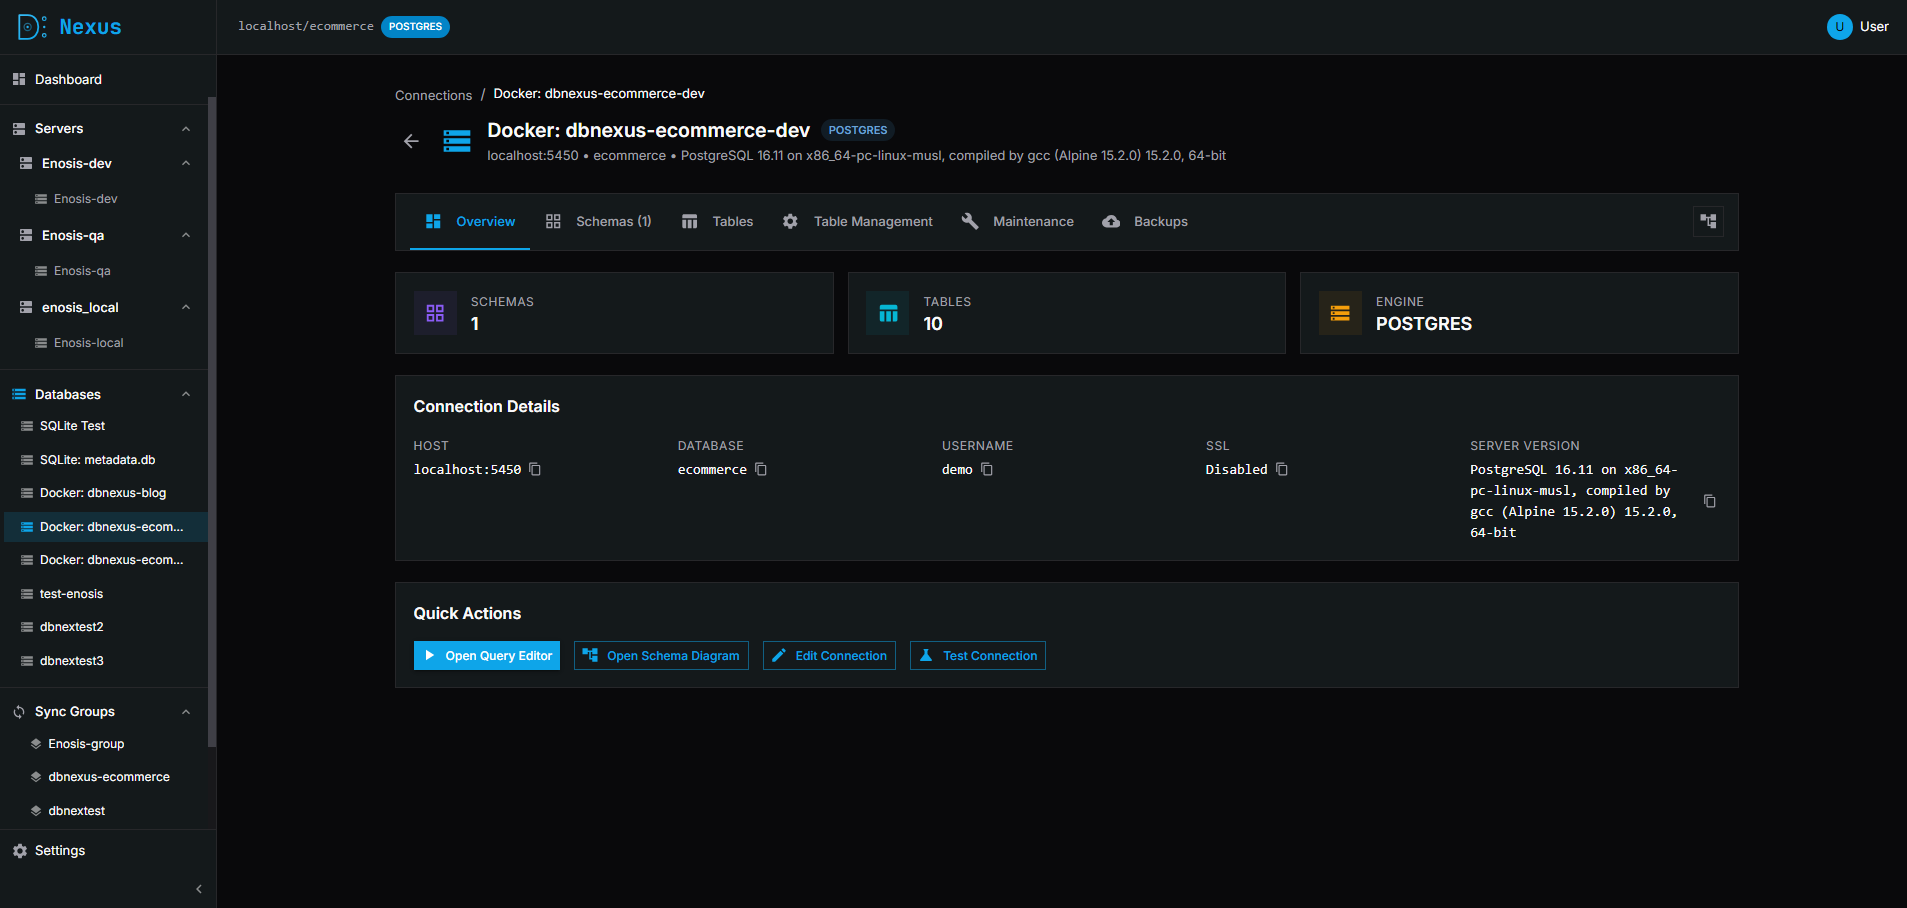
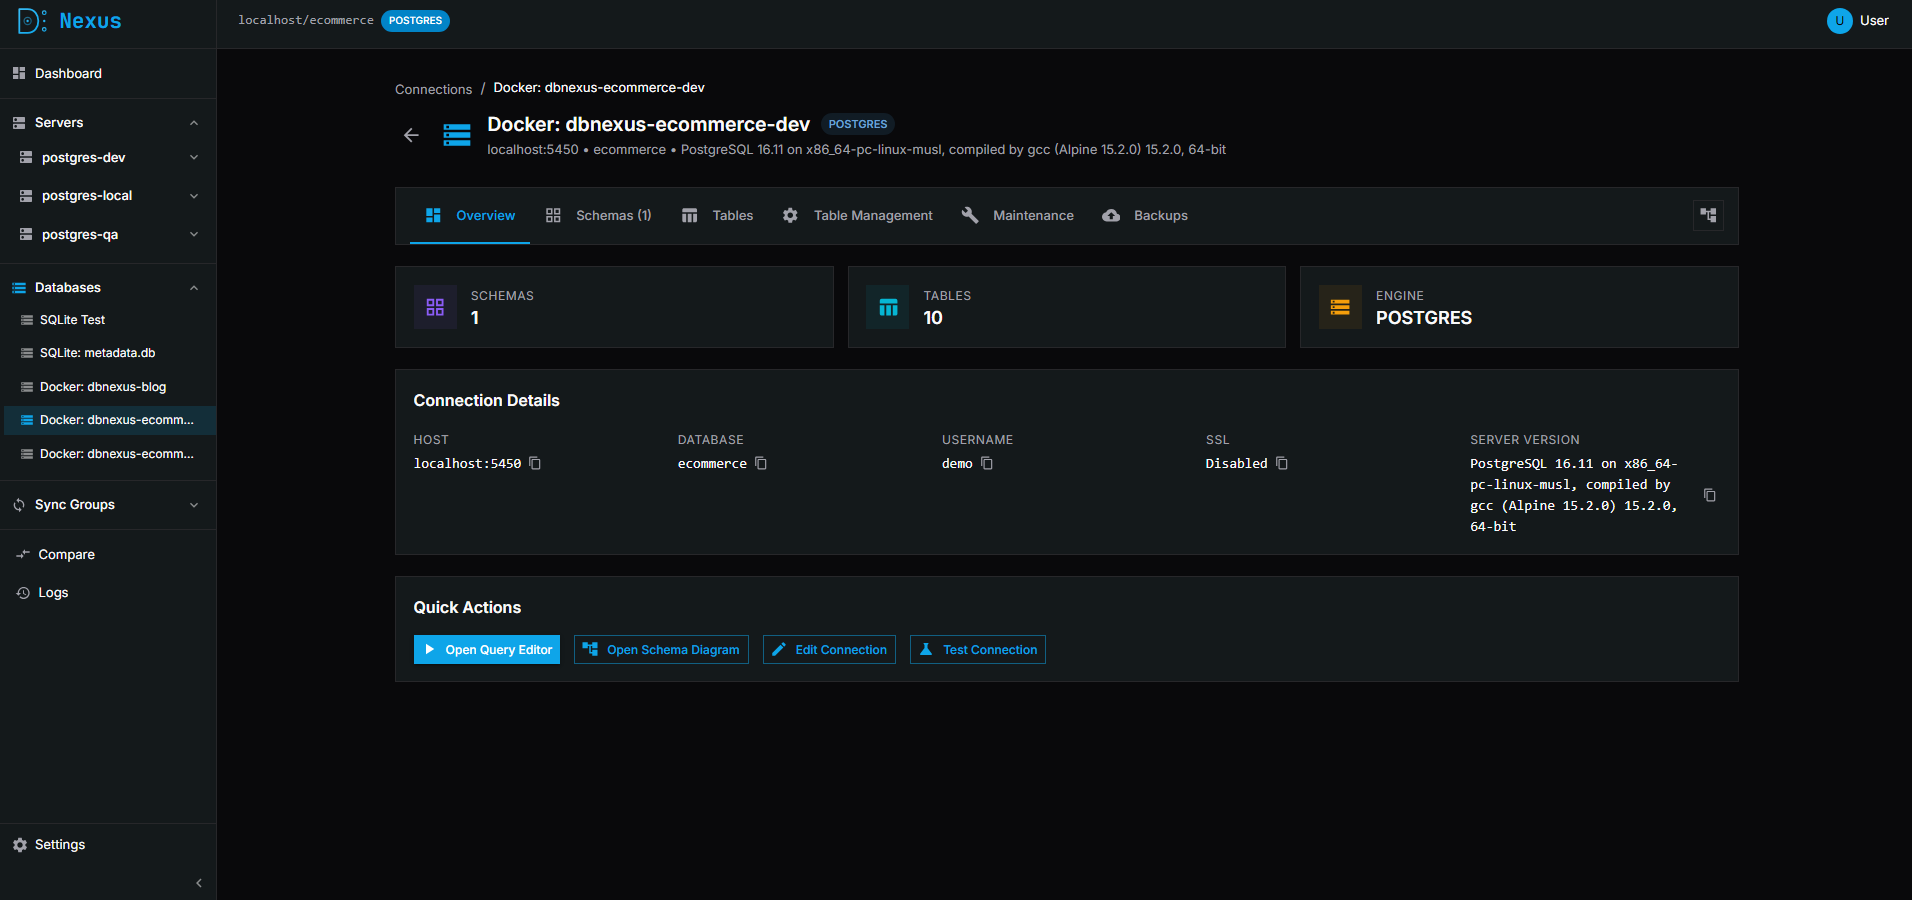
docs: Update screenshots and add Settings documentation
- Add Settings & System Tools section to features page
- Add data comparison to Compare & Sync documentation
- Update all feature screenshots with latest UI
- Fix checkbox vertical alignment in scan dialog

diff --git a/apps/docs/src/pages/FeaturesPage.tsx b/apps/docs/src/pages/FeaturesPage.tsx
@@ -141,17 +141,17 @@ const features = [
         icon: <span className="material-symbols-outlined">compare_arrows</span>,
         color: '#22c55e',
         title: 'Compare & Sync',
-        description: 'Compare database schemas across environments and keep them in sync.',
+        description: 'Compare database schemas and data across environments and keep them in sync.',
         screenshot: 'screenshots/compare-data.png',
         items: [
             'Side-by-side schema comparison',
+            'Row-level data comparison',
             'Highlight added/removed/modified',
             'Generate migration scripts',
             'Compare specific tables',
             'Instance groups for environments',
             'One-click sync preview',
             'Safe dry-run mode',
-            'Rollback support',
         ],
     },
     {
@@ -159,7 +159,7 @@ const features = [
         color: '#22d3ee',
         title: 'Auto-Discovery',
         description: 'Automatically find and connect to databases without manual configuration.',
-        screenshot: 'screenshots/scanconnections.png',
+        screenshot: 'screenshots/scandbs.png',
         items: [
             'Port scanning (5432, 3306, etc.)',
             'Docker container inspection',
@@ -236,6 +236,24 @@ const features = [
             'Backup history and logs',
             'Auto-detection of DB tools',
             'SQLite file copy backup',
+        ],
+    },
+    {
+        icon: <span className="material-symbols-outlined">settings</span>,
+        color: '#94a3b8',
+        title: 'Settings & System Tools',
+        description:
+            'Configure DB Nexus to your needs and verify that all required system tools are properly installed.',
+        screenshot: 'screenshots/settings.png',
+        items: [
+            'System tools verification',
+            'Auto-detect pg_dump, mysqldump, sqlite3',
+            'Custom tool path configuration',
+            'Theme preferences (dark/light)',
+            'Default connection settings',
+            'Data export format options',
+            'Keyboard shortcut reference',
+            'Application version info',
         ],
     },
 ];

diff --git a/apps/web/src/components/ScanConnectionsDialog.tsx b/apps/web/src/components/ScanConnectionsDialog.tsx
@@ -428,7 +428,7 @@ export function ScanConnectionsDialog({
                                                 <Box
                                                     sx={{
                                                         display: 'flex',
-                                                        alignItems: 'flex-start',
+                                                        alignItems: 'center',
                                                         gap: 1.5,
                                                     }}
                                                 >
@@ -436,7 +436,7 @@ export function ScanConnectionsDialog({
                                                         checked={isSelected}
                                                         disabled={alreadyExists}
                                                         size="small"
-                                                        sx={{ p: 0, mt: 0.25 }}
+                                                        sx={{ p: 0 }}
                                                         onClick={(e) => e.stopPropagation()}
                                                         onChange={() =>
                                                             handleToggleConnection(index)

diff --git a/CHANGELOG.md b/CHANGELOG.md
@@ -5,6 +5,19 @@ All notable changes to this project will be documented in this file.
 The format is based on [Keep a Changelog](https://keepachangelog.com/en/1.0.0/),
 and this project adheres to [Semantic Versioning](https://semver.org/spec/v2.0.0.html).
 
+## [0.3.2] - 2026-01-23
+
+### Changed
+
+- **Documentation**: Updated feature screenshots and documentation
+    - New Settings & System Tools documentation with screenshot
+    - Added data comparison feature to Compare & Sync documentation
+    - Refreshed all feature screenshots with latest UI
+
+### Fixed
+
+- **Scan Dialog**: Improved checkbox alignment for better visual consistency
+
 ## [0.3.1] - 2026-01-23
 
 ### Added
